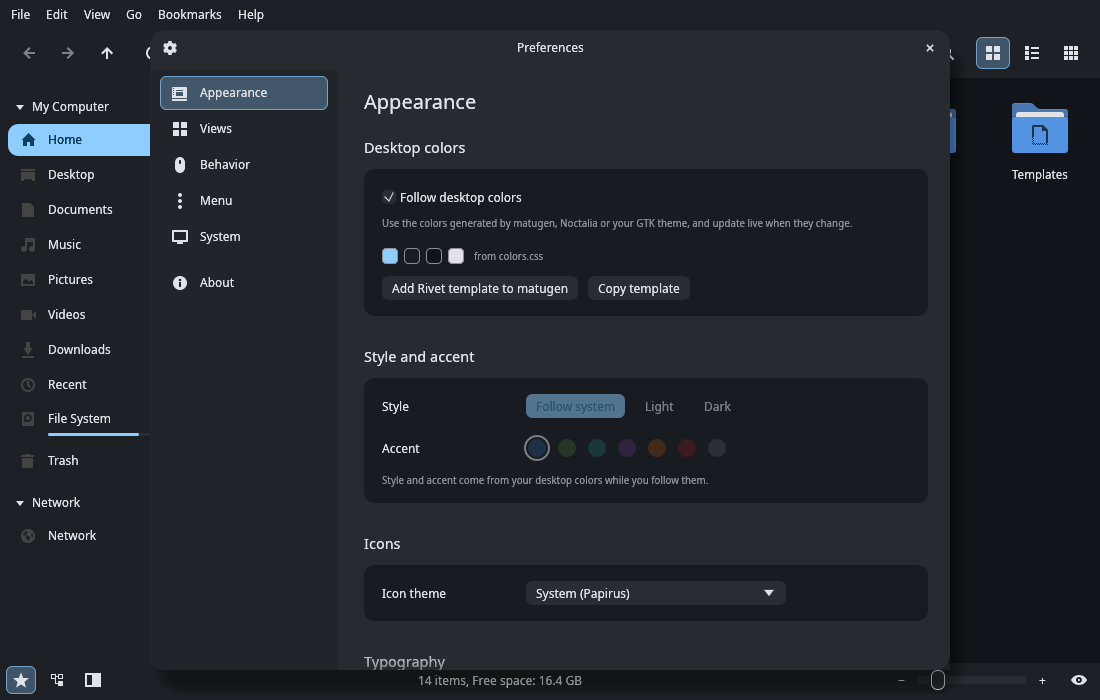
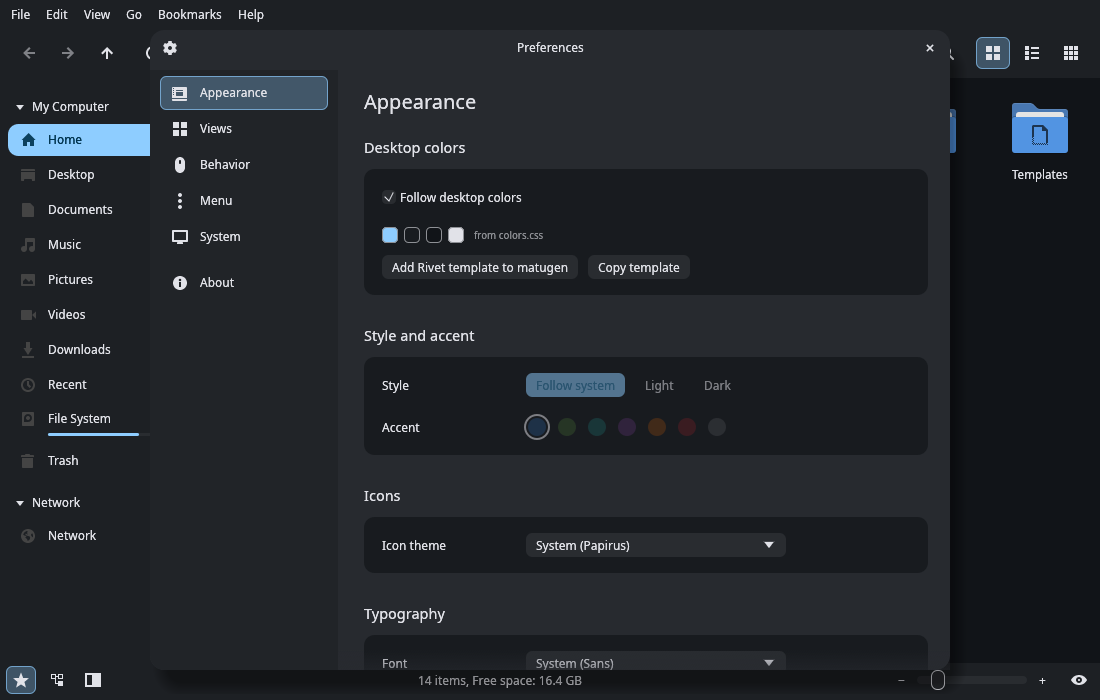
Location bar: drag to select the path as text, Copy Location on right-click; Preferences: drop filler text, clearer System page

diff --git a/src/app/dialogs.rs b/src/app/dialogs.rs
@@ -969,7 +969,6 @@ impl RivetApp {
                     PrefsTab::Appearance => {
                         section(ui, "Desktop colors", &mut |ui| {
                     changed |= ui.checkbox(&mut self.s.follow_desktop_colors, egui::RichText::new("Follow desktop colors").strong()).changed();
-                    hint(ui, "Use the colors generated by matugen, Noctalia or your GTK theme, and update live when they change.");
                     ui.add_space(6.0);
                     match (&self.palette, self.s.follow_desktop_colors) {
                         (Some(p), true) => {
@@ -985,7 +984,7 @@ impl RivetApp {
                                 ui.label(egui::RichText::new(format!("from {name}")).small().color(weak)).on_hover_text(p.source.display().to_string());
                             });
                         }
-                        (None, true) => hint(ui, "No desktop color file found yet — using the style below."),
+                        (None, true) => hint(ui, "No desktop color file found"),
                         _ => {}
                     }
                     ui.horizontal(|ui| {
@@ -1034,10 +1033,6 @@ impl RivetApp {
                         });
                         ui.end_row();
                             });
-                            if !manual {
-                                ui.add_space(6.0);
-                                hint(ui, "Style and accent come from your desktop colors while you follow them.");
-                            }
                         });
                         section(ui, "Icons", &mut |ui| {
                     egui::Grid::new("prefs-look-icons").num_columns(2).spacing([24.0, 16.0]).min_col_width(120.0).show(ui, |ui| {
@@ -1199,10 +1194,8 @@ impl RivetApp {
                     PrefsTab::Menu => {
                         section(ui, "Menu bar", &mut |ui| {
                             changed |= ui.checkbox(&mut self.s.show_menubar, "Show the menu bar").changed();
-                            hint(ui, "When it is hidden, the menu button at the end of the toolbar holds the menus. Ctrl+M switches it at any time.");
                         });
                         section(ui, "Toolbar", &mut |ui| {
-                    hint(ui, "Choose the buttons and their order. Items above the location bar sit on its left, items below it on its right.");
                     ui.add_space(2.0);
                     let mut op: Option<(usize, i32)> = None; // (index, -1 up / +1 down / 0 remove)
                     let n = self.s.toolbar.len();
@@ -1240,14 +1233,13 @@ impl RivetApp {
                                 ui.with_layout(egui::Layout::right_to_left(egui::Align::Center), |ui| {
                                     ui.spacing_mut().item_spacing.x = 4.0;
                                     // A fixed-width slot keeps the arrows lined up in every row.
-                                    ui.allocate_ui_with_layout(Vec2::new(122.0, 22.0), egui::Layout::right_to_left(egui::Align::Center), |ui| {
-                                        ui.set_min_width(122.0);
+                                    ui.allocate_ui_with_layout(Vec2::new(28.0, 22.0), egui::Layout::right_to_left(egui::Align::Center), |ui| {
+                                        ui.set_min_width(28.0);
                                         if !fixed {
                                             if trash_button(ui).on_hover_text("Remove from the toolbar").clicked() {
                                                 op = Some((i, 0));
                                             }
                                         } else {
-                                            ui.label(egui::RichText::new(if path { "always shown" } else { "keeps menus reachable" }).small().color(weak));
                                         }
                                     });
                                     if arrow_button(ui, false, i + 1 < n).on_hover_text("Move down").clicked() {
@@ -1293,64 +1285,91 @@ impl RivetApp {
                         });
                     }
                     PrefsTab::System => {
-                        section(ui, "Desktop integration", &mut |ui| {
-                    let installed = desktop::is_installed();
-                    ui.horizontal(|ui| {
-                        if installed {
-                            check_label(ui, "In your app launcher");
-                            if ui.button("Update entry").on_hover_text("Point the launcher at this copy of Rivet").clicked() {
-                                system_msg = Some(desktop::install().map(|_| "Launcher entry updated.".to_string()).unwrap_or_else(|e| e));
-                            }
-                            if ui.button("Remove").clicked() {
-                                system_msg = Some(desktop::uninstall().map(|_| "Removed from the app launcher.".to_string()).unwrap_or_else(|e| e));
-                            }
-                        } else if ui.button("Add Rivet to the app launcher").clicked() {
-                            system_msg = Some(desktop::install().map(|_| "Rivet is now in your app launcher.".to_string()).unwrap_or_else(|e| e));
-                        }
-                    });
-                    ui.horizontal(|ui| {
-                        if desktop::is_default_file_manager() {
-                            check_label(ui, "Default file manager");
-                        } else if ui.button("Make Rivet the default file manager").on_hover_text("Folders opened from other apps and the desktop will open in Rivet").clicked() {
-                            system_msg = Some(
-                                desktop::set_default_file_manager()
-                                    .map(|_| "Rivet is now your default file manager.".to_string())
-                                    .unwrap_or_else(|e| e),
-                            );
-                        }
-                    });
-                    hint(ui, "Adds a standard desktop entry so Rivet appears in your launcher, menus and “Open With” lists.");
-                    ui.add_space(6.0);
-                    // A global `rivet` command that always opens this build (rebuilds included).
-                    for (spot, title, button, tip) in [
-                        (desktop::LinkSpot::System, "rivet command for everyone", "Link in /usr/bin…", "Asks for your administrator password"),
-                        (desktop::LinkSpot::User, "rivet command just for you", "Link in ~/.local/bin", "No password needed"),
-                    ] {
-                        ui.horizontal(|ui| {
-                            let state = desktop::link_state(spot);
-                            match &state {
-                                desktop::LinkState::ThisBuild => {
-                                    check_label(ui, title);
-                                    if ui.button("Remove").clicked() {
-                                        link_result = Some(desktop::unlink_command(spot).map(|_| format!("Removed {}", spot.path().display())));
+                        // One row per item: name · status · actions on the right.
+                        let row = |ui: &mut egui::Ui, name: &str, sub: Option<String>, ok: Option<bool>, status: &str, actions: &mut dyn FnMut(&mut egui::Ui)| {
+                            ui.horizontal(|ui| {
+                                ui.set_min_height(34.0);
+                                let col = if sub.is_some() { egui::Layout::top_down(egui::Align::Min) } else { egui::Layout::left_to_right(egui::Align::Center) };
+                                ui.allocate_ui_with_layout(Vec2::new(190.0, 34.0), col, |ui| {
+                                    ui.set_width(190.0);
+                                    ui.spacing_mut().item_spacing.y = 1.0;
+                                    ui.label(name);
+                                    if let Some(sub) = &sub {
+                                        ui.label(egui::RichText::new(sub).small().monospace().color(weak));
+                                    }
+                                });
+                                match ok {
+                                    Some(true) => check_label(ui, status),
+                                    _ => {
+                                        ui.label(egui::RichText::new(status).color(weak));
                                     }
                                 }
-                                desktop::LinkState::NotALink => {
-                                    ui.label(egui::RichText::new(format!("{} is a packaged program; left alone", spot.path().display())).color(weak));
+                                ui.with_layout(egui::Layout::right_to_left(egui::Align::Center), |ui| actions(ui));
+                            });
+                        };
+                        section(ui, "Desktop", &mut |ui| {
+                            let installed = desktop::is_installed();
+                            row(ui, "App launcher", None, Some(installed), if installed { "Added" } else { "Not added" }, &mut |ui| {
+                                if installed {
+                                    if ui.button("Remove").clicked() {
+                                        system_msg = Some(desktop::uninstall().map(|_| "Removed from the app launcher.".to_string()).unwrap_or_else(|e| e));
+                                    }
+                                    if ui.button("Update").on_hover_text("Point the launcher at this copy of Rivet").clicked() {
+                                        system_msg = Some(desktop::install().map(|_| "Launcher entry updated.".to_string()).unwrap_or_else(|e| e));
+                                    }
+                                } else if ui.button("Add").clicked() {
+                                    system_msg = Some(desktop::install().map(|_| "Rivet is now in your app launcher.".to_string()).unwrap_or_else(|e| e));
                                 }
-                                other => {
-                                    let label = if matches!(other, desktop::LinkState::Elsewhere(_)) { format!("{button} (replaces an older link)") } else { button.to_string() };
-                                    if ui.button(label).on_hover_text(tip).clicked() {
-                                        link_result = Some(desktop::link_command_here(spot));
-                                        if matches!(link_result, Some(Err(_))) {
-                                            ui.ctx().copy_text(desktop::link_command(spot));
+                            });
+                            ui.separator();
+                            let default = desktop::is_default_file_manager();
+                            row(ui, "Default file manager", None, Some(default), if default { "Rivet" } else { "Another app" }, &mut |ui| {
+                                if !default && ui.button("Make default").clicked() {
+                                    system_msg = Some(
+                                        desktop::set_default_file_manager()
+                                            .map(|_| "Rivet is now your default file manager.".to_string())
+                                            .unwrap_or_else(|e| e),
+                                    );
+                                }
+                            });
+                        });
+                        section(ui, "Terminal command", &mut |ui| {
+                            let spots = [(desktop::LinkSpot::User, "Just for you", "Link"), (desktop::LinkSpot::System, "Everyone", "Link…")];
+                            for (n, (spot, name, button)) in spots.into_iter().enumerate() {
+                                if n > 0 {
+                                    ui.separator();
+                                }
+                                let path = spot.path();
+                                let home = crate::places::home();
+                                let shown = match path.strip_prefix(&home) {
+                                    Ok(r) => format!("~/{}", r.display()),
+                                    Err(_) => path.display().to_string(),
+                                };
+                                let state = desktop::link_state(spot);
+                                let (ok, status) = match &state {
+                                    desktop::LinkState::ThisBuild => (Some(true), "Linked"),
+                                    desktop::LinkState::NotALink => (None, "Installed by a package"),
+                                    desktop::LinkState::Elsewhere(_) => (Some(false), "Points to another copy"),
+                                    desktop::LinkState::Missing => (Some(false), "Not linked"),
+                                };
+                                row(ui, name, Some(shown), ok, status, &mut |ui| match &state {
+                                    desktop::LinkState::ThisBuild => {
+                                        if ui.button("Remove").clicked() {
+                                            link_result = Some(desktop::unlink_command(spot).map(|_| format!("Removed {}", spot.path().display())));
                                         }
                                     }
-                                }
+                                    desktop::LinkState::NotALink => {}
+                                    _ => {
+                                        let tip = if spot == desktop::LinkSpot::System { "Asks for your administrator password" } else { "No password needed" };
+                                        if ui.button(button).on_hover_text(tip).clicked() {
+                                            link_result = Some(desktop::link_command_here(spot));
+                                            if matches!(link_result, Some(Err(_))) {
+                                                ui.ctx().copy_text(desktop::link_command(spot));
+                                            }
+                                        }
+                                    }
+                                });
                             }
-                        });
-                    }
-                    hint(ui, "Lets you type rivet in a terminal or launcher. It points at this build, so every rebuild is picked up.");
                         });
                     }
                     PrefsTab::About => {

diff --git a/src/app/chrome.rs b/src/app/chrome.rs
@@ -765,15 +765,30 @@ impl RivetApp {
         let last = crumbs.len() - 1;
         // Clicking the empty part of the location bar turns it into a text field.
         let area = ui.max_rect();
-        let bg = ui.interact(area, Id::unique("crumbs-bg"), Sense::click());
+        // Dragging across it (even starting on a folder button) does too, so the path can
+        // be selected and copied like text.
+        let bg = ui.interact(area, Id::unique("crumbs-bg"), Sense::click_and_drag());
         if bg.hovered() {
             // Lift the bar a touch on hover instead of drawing an outline.
             ui.painter().rect_filled(area.expand(4.0), R_MD, ui.visuals().text_color().gamma_multiply(0.05));
             ui.ctx().set_cursor_icon(egui::CursorIcon::Text);
         }
-        if bg.clicked() {
+        if bg.clicked() || bg.drag_started() {
             self.start_path_editing();
         }
+        let here = self.current_dir();
+        bg.context_menu(|ui| {
+            Self::comfy_menu(ui);
+            if let Some(d) = &here {
+                if ui.button("Copy Location").clicked() {
+                    ui.ctx().copy_text(d.display().to_string());
+                    self.flash("Location copied");
+                }
+            }
+            if ui.add(egui::Button::new("Edit Location").shortcut_text("Ctrl+L")).clicked() {
+                self.start_path_editing();
+            }
+        });
         egui::ScrollArea::horizontal()
             .id_salt("crumbs")
             .scroll_bar_visibility(egui::scroll_area::ScrollBarVisibility::AlwaysHidden)
@@ -795,6 +810,27 @@ impl RivetApp {
                             if let Some(t) = target.clone() {
                                 self.pending.push(Action::Navigate(t));
                             }
+                        }
+                        // Right-click a folder button: copy its location or open it in a tab.
+                        let crumb_dir = match &target {
+                            Some(Location::Dir(d)) => Some(d.clone()),
+                            None if sel => here.clone(),
+                            _ => None,
+                        };
+                        if let Some(d) = crumb_dir {
+                            resp.context_menu(|ui| {
+                                Self::comfy_menu(ui);
+                                if ui.button("Copy Location").clicked() {
+                                    ui.ctx().copy_text(d.display().to_string());
+                                    self.flash("Location copied");
+                                }
+                                if ui.button("Open in New Tab").clicked() {
+                                    self.pending.push(Action::OpenInNewTab(d.clone()));
+                                }
+                                if ui.add(egui::Button::new("Edit Location").shortcut_text("Ctrl+L")).clicked() {
+                                    self.start_path_editing();
+                                }
+                            });
                         }
                         if let Some(Location::Dir(d)) = &target {
                             if let Some(p) = resp.dnd_release_payload::<DragFiles>() {

diff --git a/src/app.rs b/src/app.rs
@@ -1635,6 +1635,16 @@ impl RivetApp {
 
     fn screenshot_step(&mut self, ctx: &egui::Context) {
         let Some(path) = self.screenshot.clone() else { return };
+        // Checks never touch the real clipboard: report what would be copied instead.
+        ctx.output_mut(|o| {
+            o.commands.retain(|c| match c {
+                egui::OutputCommand::CopyText(t) => {
+                    println!("copied: {t}");
+                    false
+                }
+                _ => true,
+            })
+        });
         self.frames += 1;
         ctx.request_repaint();
         // Keep painting even if the compositor reports the window as hidden.
@@ -1800,6 +1810,17 @@ impl eframe::App for RivetApp {
         let Ok(list) = std::env::var("RIVET_CLICKS") else { return };
         for item in list.split(';') {
             let Some((xy, f)) = item.split_once('@') else { continue };
+            // "copy@N" sends Ctrl+C at frame N.
+            if xy.trim() == "copy" {
+                if let Ok(f) = f.trim().parse::<u32>() {
+                    if self.frames + 1 == f {
+                        let m = egui::Modifiers::COMMAND;
+                        raw.events.push(egui::Event::Key { key: egui::Key::C, physical_key: None, pressed: true, repeat: false, modifiers: m });
+                        raw.events.push(egui::Event::Copy);
+                    }
+                }
+                continue;
+            }
             // "r" in front means a right click: "r400,300@5".
             let (button, xy) = match xy.trim().strip_prefix('r') {
                 Some(rest) => (egui::PointerButton::Secondary, rest),
